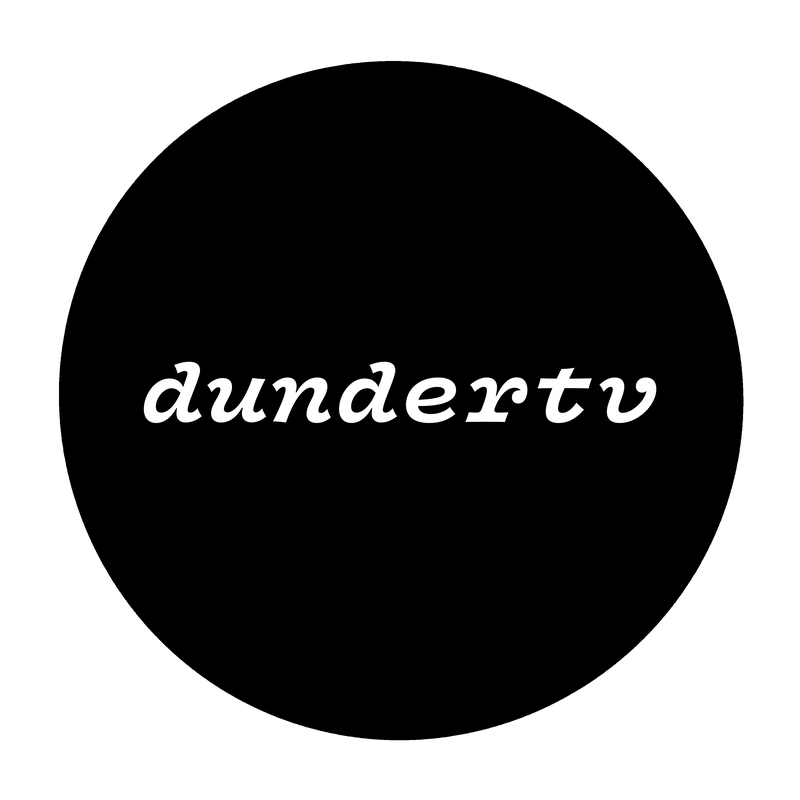
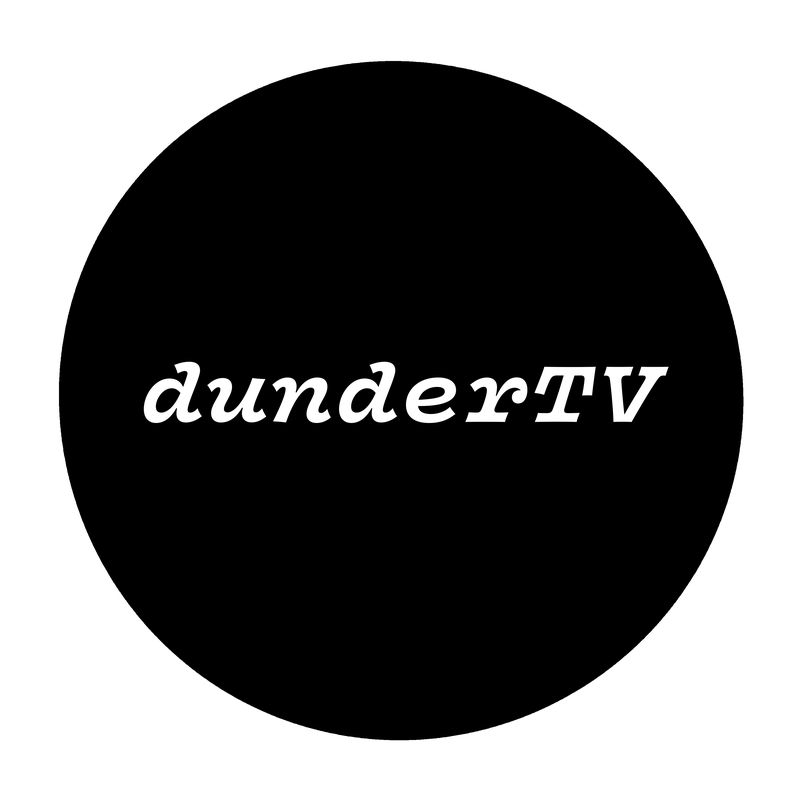
dunderTV: capital TV

Changed region(s): [[0.6562, 0.4375, 0.8438, 0.5312]]

diff --git a/README.md b/README.md
@@ -8,5 +8,5 @@ ErsatzTV's own logo URLs never load in the Plex guide. Each ErsatzTV channel's l
 
 Generated by `~/docker/ersatztv/.claude/scripts/make_logo.py` (Vulf Mono Bold Italic):
 
-    uv run --script make_logo.py channels dundertv sitcoms shonen "cozy anime"
+    uv run --script make_logo.py channels dunderTV sitcoms shonen "cozy anime"
     uv run --script make_logo.py .        # bretflix-white.png / bretflix-black.png
